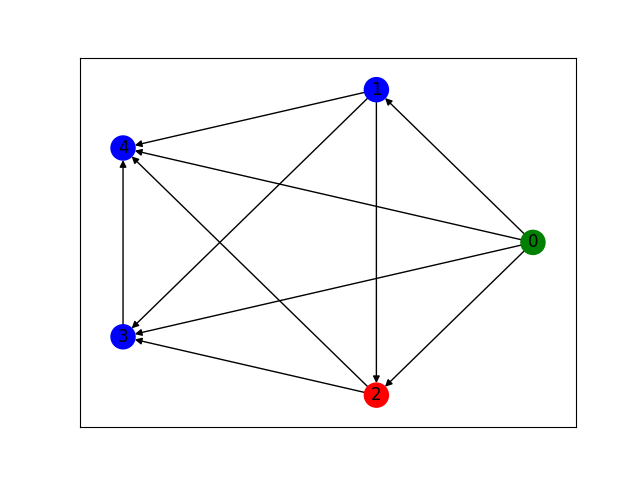
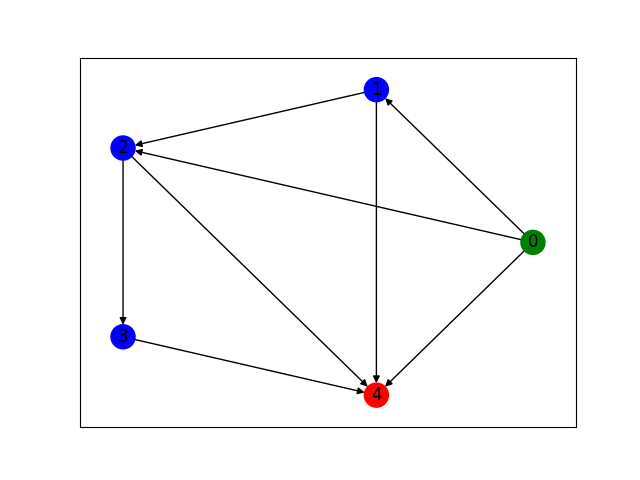
Bug fix: nodes out of order on graph

diff --git a/src/GraphModeling/models/Graph.py b/src/GraphModeling/models/Graph.py
@@ -40,7 +40,7 @@ class Graph:
         Args:
             picture_name (str, optional): The name to save the graph image as. Defaults to "".
             edge_labels (Mapping | None, optional): The dictionary of edges to labels. Defaults to None.
-            suppress_text_output: Supresses print statements and edge labels from being printed on the graph
+            suppress_text_output (bool): Supresses print statements and edge labels from being printed on the graph. Defaults to False
         """
         if(not suppress_text_output):
             print("Nodes on Graph:")
@@ -161,6 +161,8 @@ class Graph:
             for node in edge:
                 if node not in nodes:
                     nodes.append(node)
+        # sort the nodes
+        nodes.sort()
         return nodes
 
     # Static/Class Function

diff --git a/src/GraphModeling/tests/ArbitraryGraphTest.py b/src/GraphModeling/tests/ArbitraryGraphTest.py
@@ -11,6 +11,9 @@ import networkx
 def main():
     for i in range(1,11):
         graph = get_arbitrary_graph(5)
+        print(f"Paths of the graph {i}")
+        print_paths(graph.get_simple_paths())
+        print(f"Nodes in the graph: {Graph.get_nodes(graph.edges)}")
         graph.print_graph(picture_name = f"resources/ArbitraryGraphTestResults/arb5graph_{i}", suppress_text_output=True)
     
 
